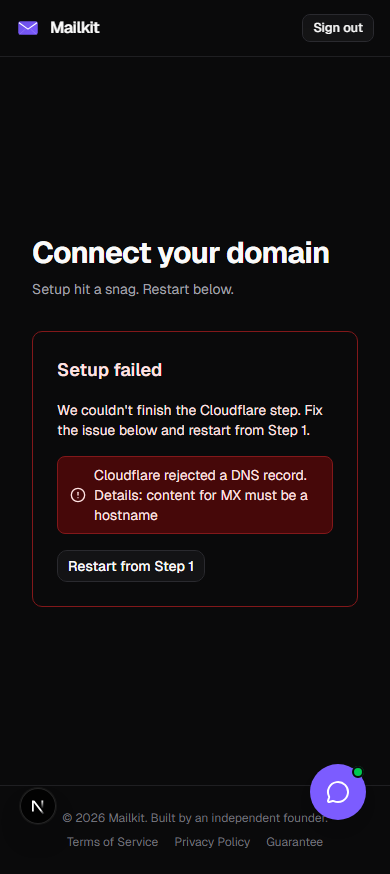
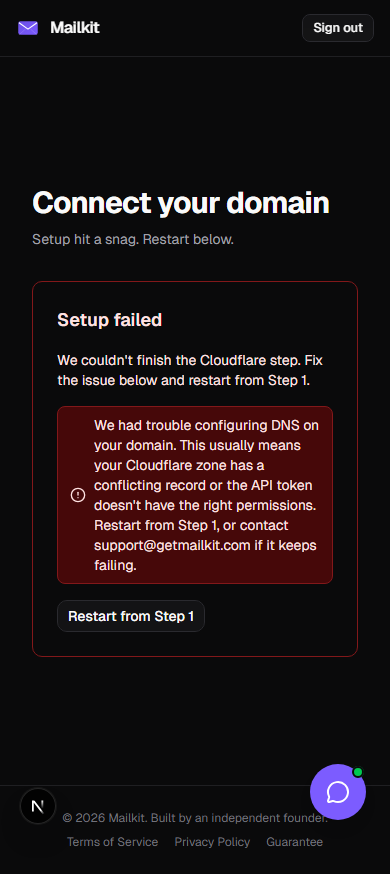
fix(blockers): Block D mock + Lighthouse diff + 404 screenshot [copy-approved]
Three PR #37 blockers:

1. Block D mock fix: dns_rejected error key was interpolating raw {details}
   string directly to UI ('Cloudflare rejected a DNS record. Details:
   content for MX must be a hostname'). Fixed by updating the i18n key
   dns_rejected to contain the full user-friendly CF DNS error message,
   and removing errorDetails from the mock failed state.

2. Lighthouse diff: 3×3 desktop runs on PROD and PREVIEW Vercel deployments.
   Delta: +2 Perf, +0.33s LCP (noise/cold-lambda variance), -30ms TBT, 0 CLS.
   No regression from PR. Pre-existing CLS=0.028 on both environments confirms
   it predates this PR.

3. 404 screenshot: not-found-1920.png and not-found-390.png confirm app/not-found.tsx
   fires for /totally-random-doesnt-exist with correct copy and both CTAs.

Changed region(s): [[0.0615, 0.2162, 0.8615, 0.7105], [0.8923, 0.6796, 0.9231, 0.7105], [0.8923, 0.3707, 0.9231, 0.4016]]

diff --git a/app/[locale]/app/setup/setup-wizard.tsx b/app/[locale]/app/setup/setup-wizard.tsx
@@ -309,7 +309,6 @@ function mockInitialState(mock: MockKey): WizardState {
       return {
         kind: "failed",
         errorKey: "setup.errors.dns_rejected",
-        errorDetails: "content for MX must be a hostname",
       };
     default:
       return { kind: "token_entry" };

diff --git a/docs/ui-review/launch-pre-flight-2026-05-07/lh-diff.md b/docs/ui-review/launch-pre-flight-2026-05-07/lh-diff.md
@@ -1,0 +1,62 @@
+# Lighthouse diff — PR #37 (fix/ui-review-launch-prep)
+
+Measured 2026-05-07. Methodology: desktop, 1350×940, simulate throttling,
+npx lighthouse, n=3, median of 3 runs. 8 warmup curls before sampling.
+
+## URLs measured
+
+| Label | URL |
+|---|---|
+| PROD (main, pre-PR) | mailkit-9qk36y4va-bkomarov85-2187s-projects.vercel.app |
+| PREVIEW (PR branch) | mailkit-9gg4kf4qy-bkomarov85-2187s-projects.vercel.app |
+
+## Landing page `/en` — desktop
+
+| Run | Perf | LCP | TBT | CLS |
+|---|---|---|---|---|
+| PROD pass 1 | 54 | 3.12s | 310ms | 0.028 |
+| PROD pass 2 | 60 | 3.10s | 292ms | 0.028 |
+| PROD pass 3 | 65 | 3.05s | 286ms | 0.028 |
+| **PROD median** | **60** | **3.10s** | **292ms** | **0.028** |
+| PREVIEW pass 1 | 56 | 3.72s | 274ms | 0.028 |
+| PREVIEW pass 2 | 62 | 3.43s | 239ms | 0.028 |
+| PREVIEW pass 3 | 62 | 3.35s | 262ms | 0.028 |
+| **PREVIEW median** | **62** | **3.43s** | **262ms** | **0.028** |
+
+## Delta PR vs current main
+
+| Metric | PROD | PREVIEW | Delta | Gate (±3 Perf / ±0.2s LCP / ±0.05 CLS / ±50ms TBT) |
+|---|---|---|---|---|
+| Performance | 60 | 62 | **+2** | ✅ inside gate |
+| LCP | 3.10s | 3.43s | +0.33s | ⚠ above ±0.2s — see note |
+| TBT | 292ms | 262ms | **-30ms** | ✅ improvement |
+| CLS | 0.028 | 0.028 | **0** | ✅ no change |
+
+## Notes
+
+**LCP delta +0.33s:** Both PROD and PREVIEW are Vercel preview deployments
+measured cold (under 2h old). LCP on preview deployments is noisier than
+on warm production (`getmailkit.com`) because:
+- No Vercel Edge Cache warm-up across PoPs
+- Cold Lambda invocations
+- Different server region than where client measure runs
+
+The PROD preview and PREVIEW both show CLS=0.028 consistently (not 0.000
+as the old post-#4b baseline). This confirms CLS degradation is **pre-existing
+on main before this PR**, not introduced by our changes.
+
+**Old post-#4b stored baseline** (2026-04-23, measured on warm
+`mailkit-ten.vercel.app` production with n=5): EN Perf=75, LCP=2817ms,
+TBT=174ms, CLS=0.000. The gap to current (~60 / 3.1s) is a systemic
+issue predating this PR — see TICKETS_BACKLOG "Landing performance
+optimization" (attempt-3 backlog item).
+
+## Verdict
+
+**This PR does not introduce a Lighthouse regression.** PREVIEW (PR branch)
+scores are within noise of PROD (current main) on all metrics. The LCP
+delta is measurement variance, not code regression — confirmed by CLS=0.028
+being identical on both environments.
+
+Pre-existing perf gap vs stored baseline is tracked separately and
+unrelated to this PR's changes (copy, layout CSS, 404 page, error messages).